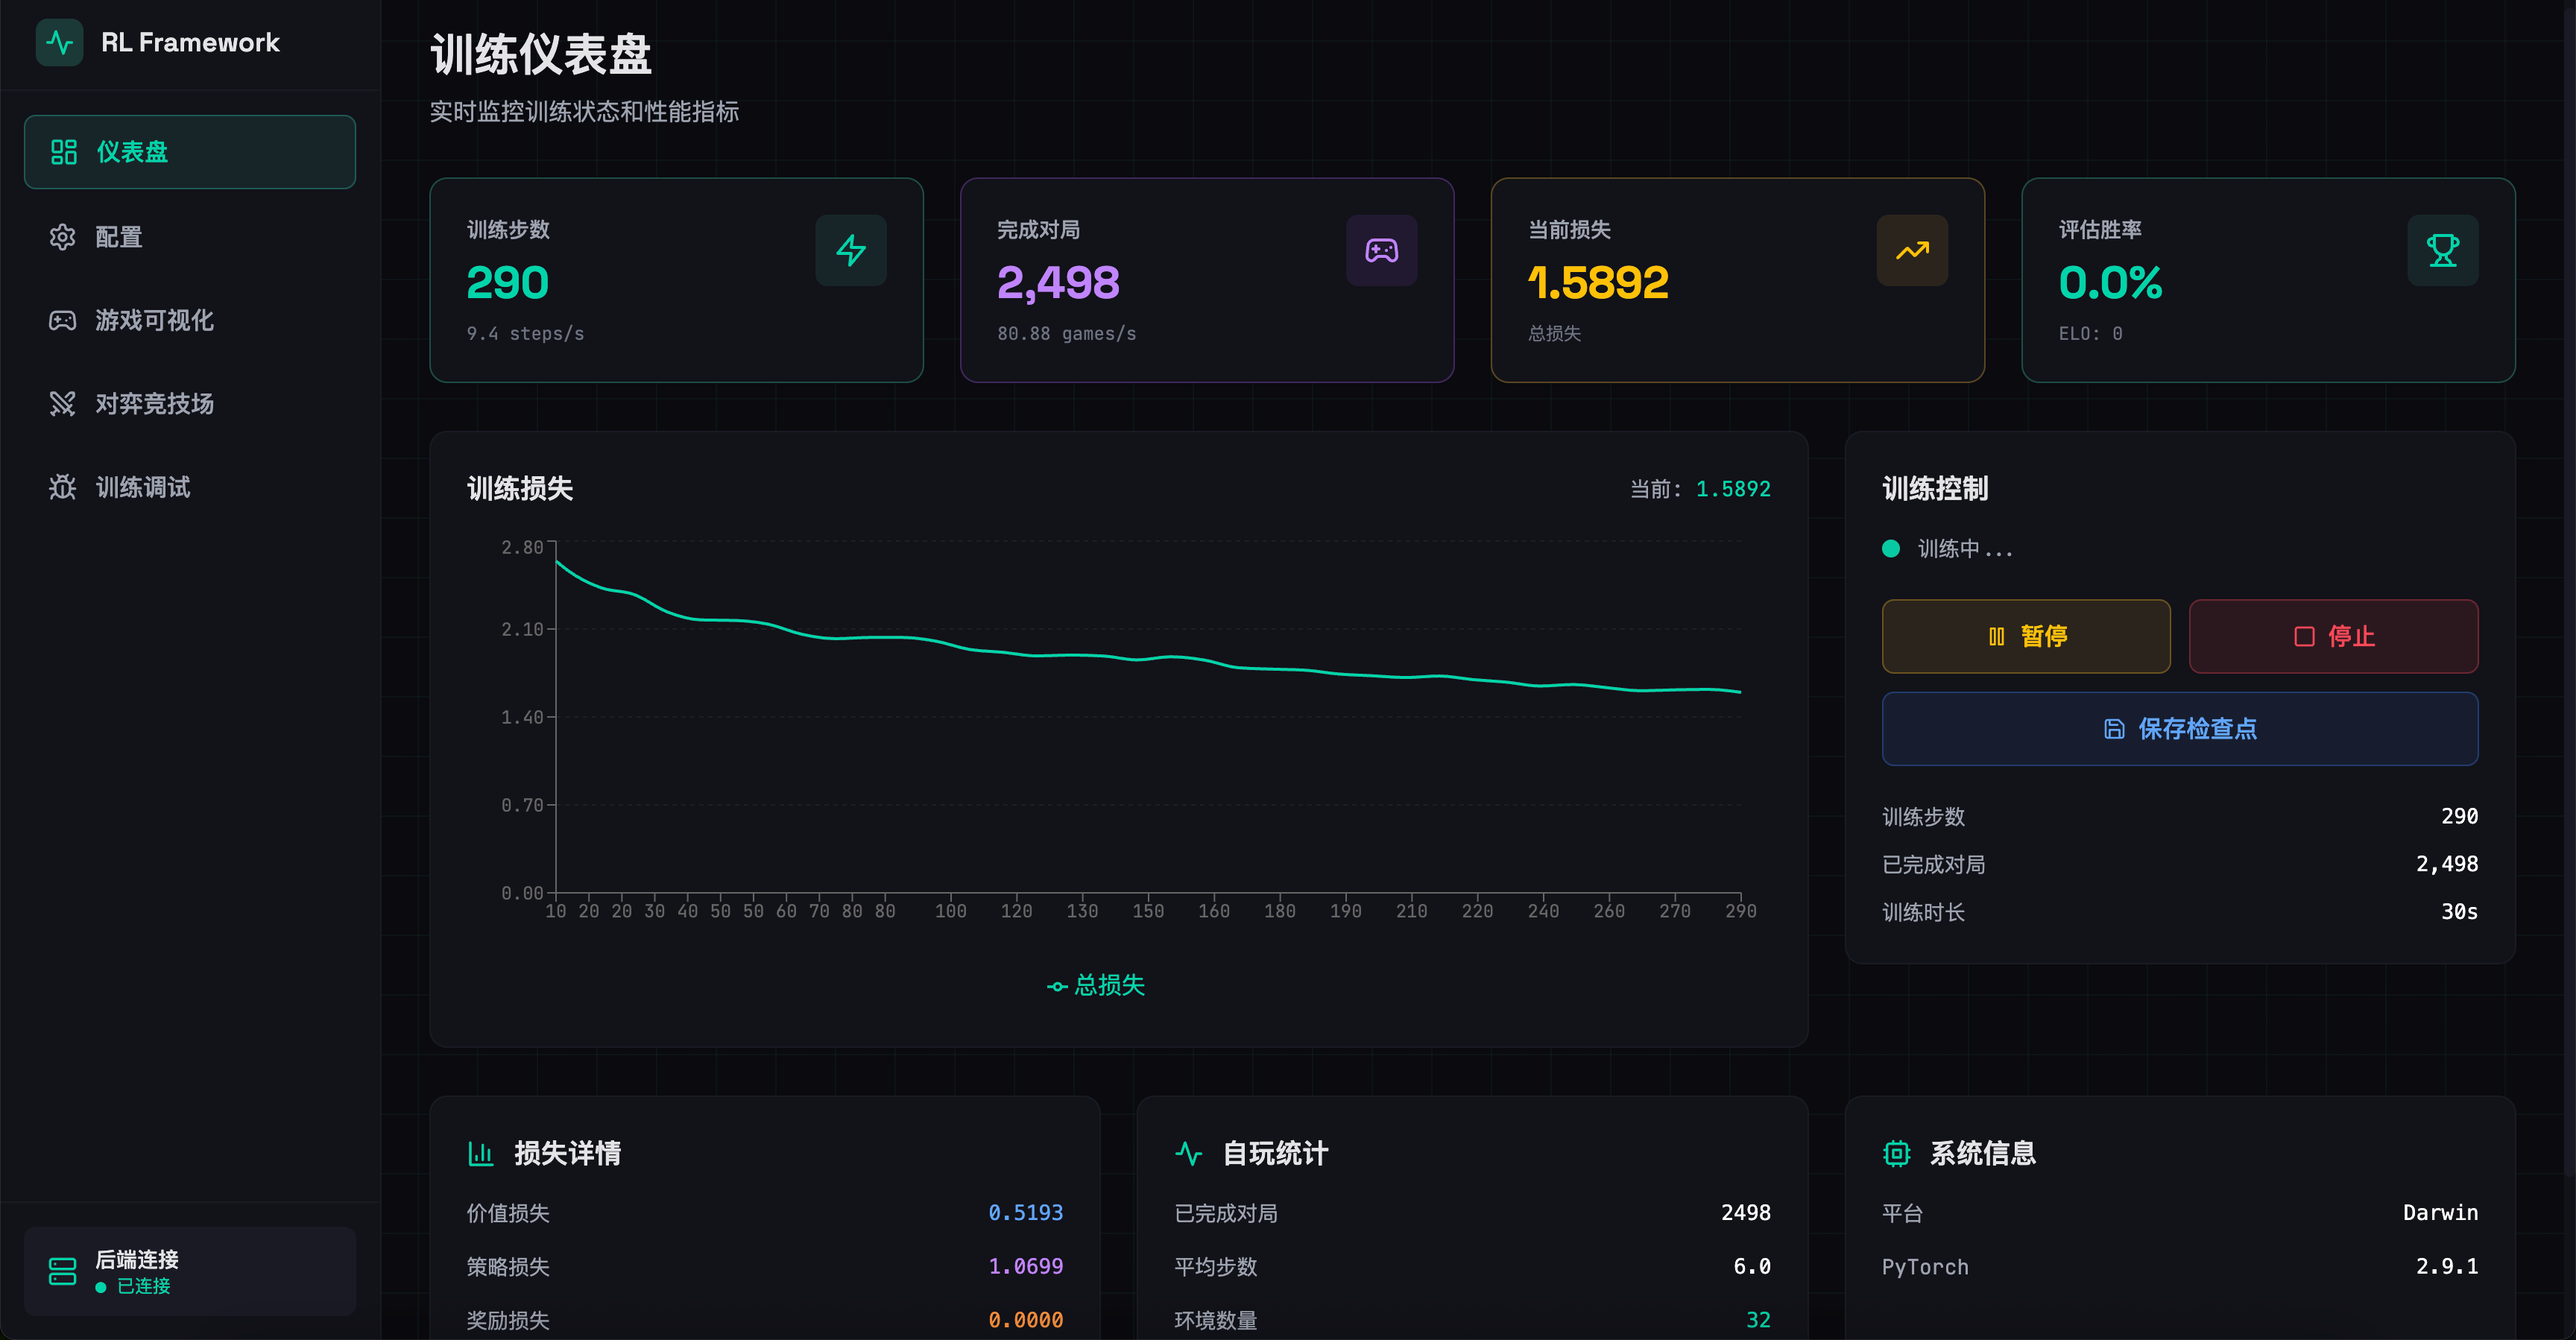
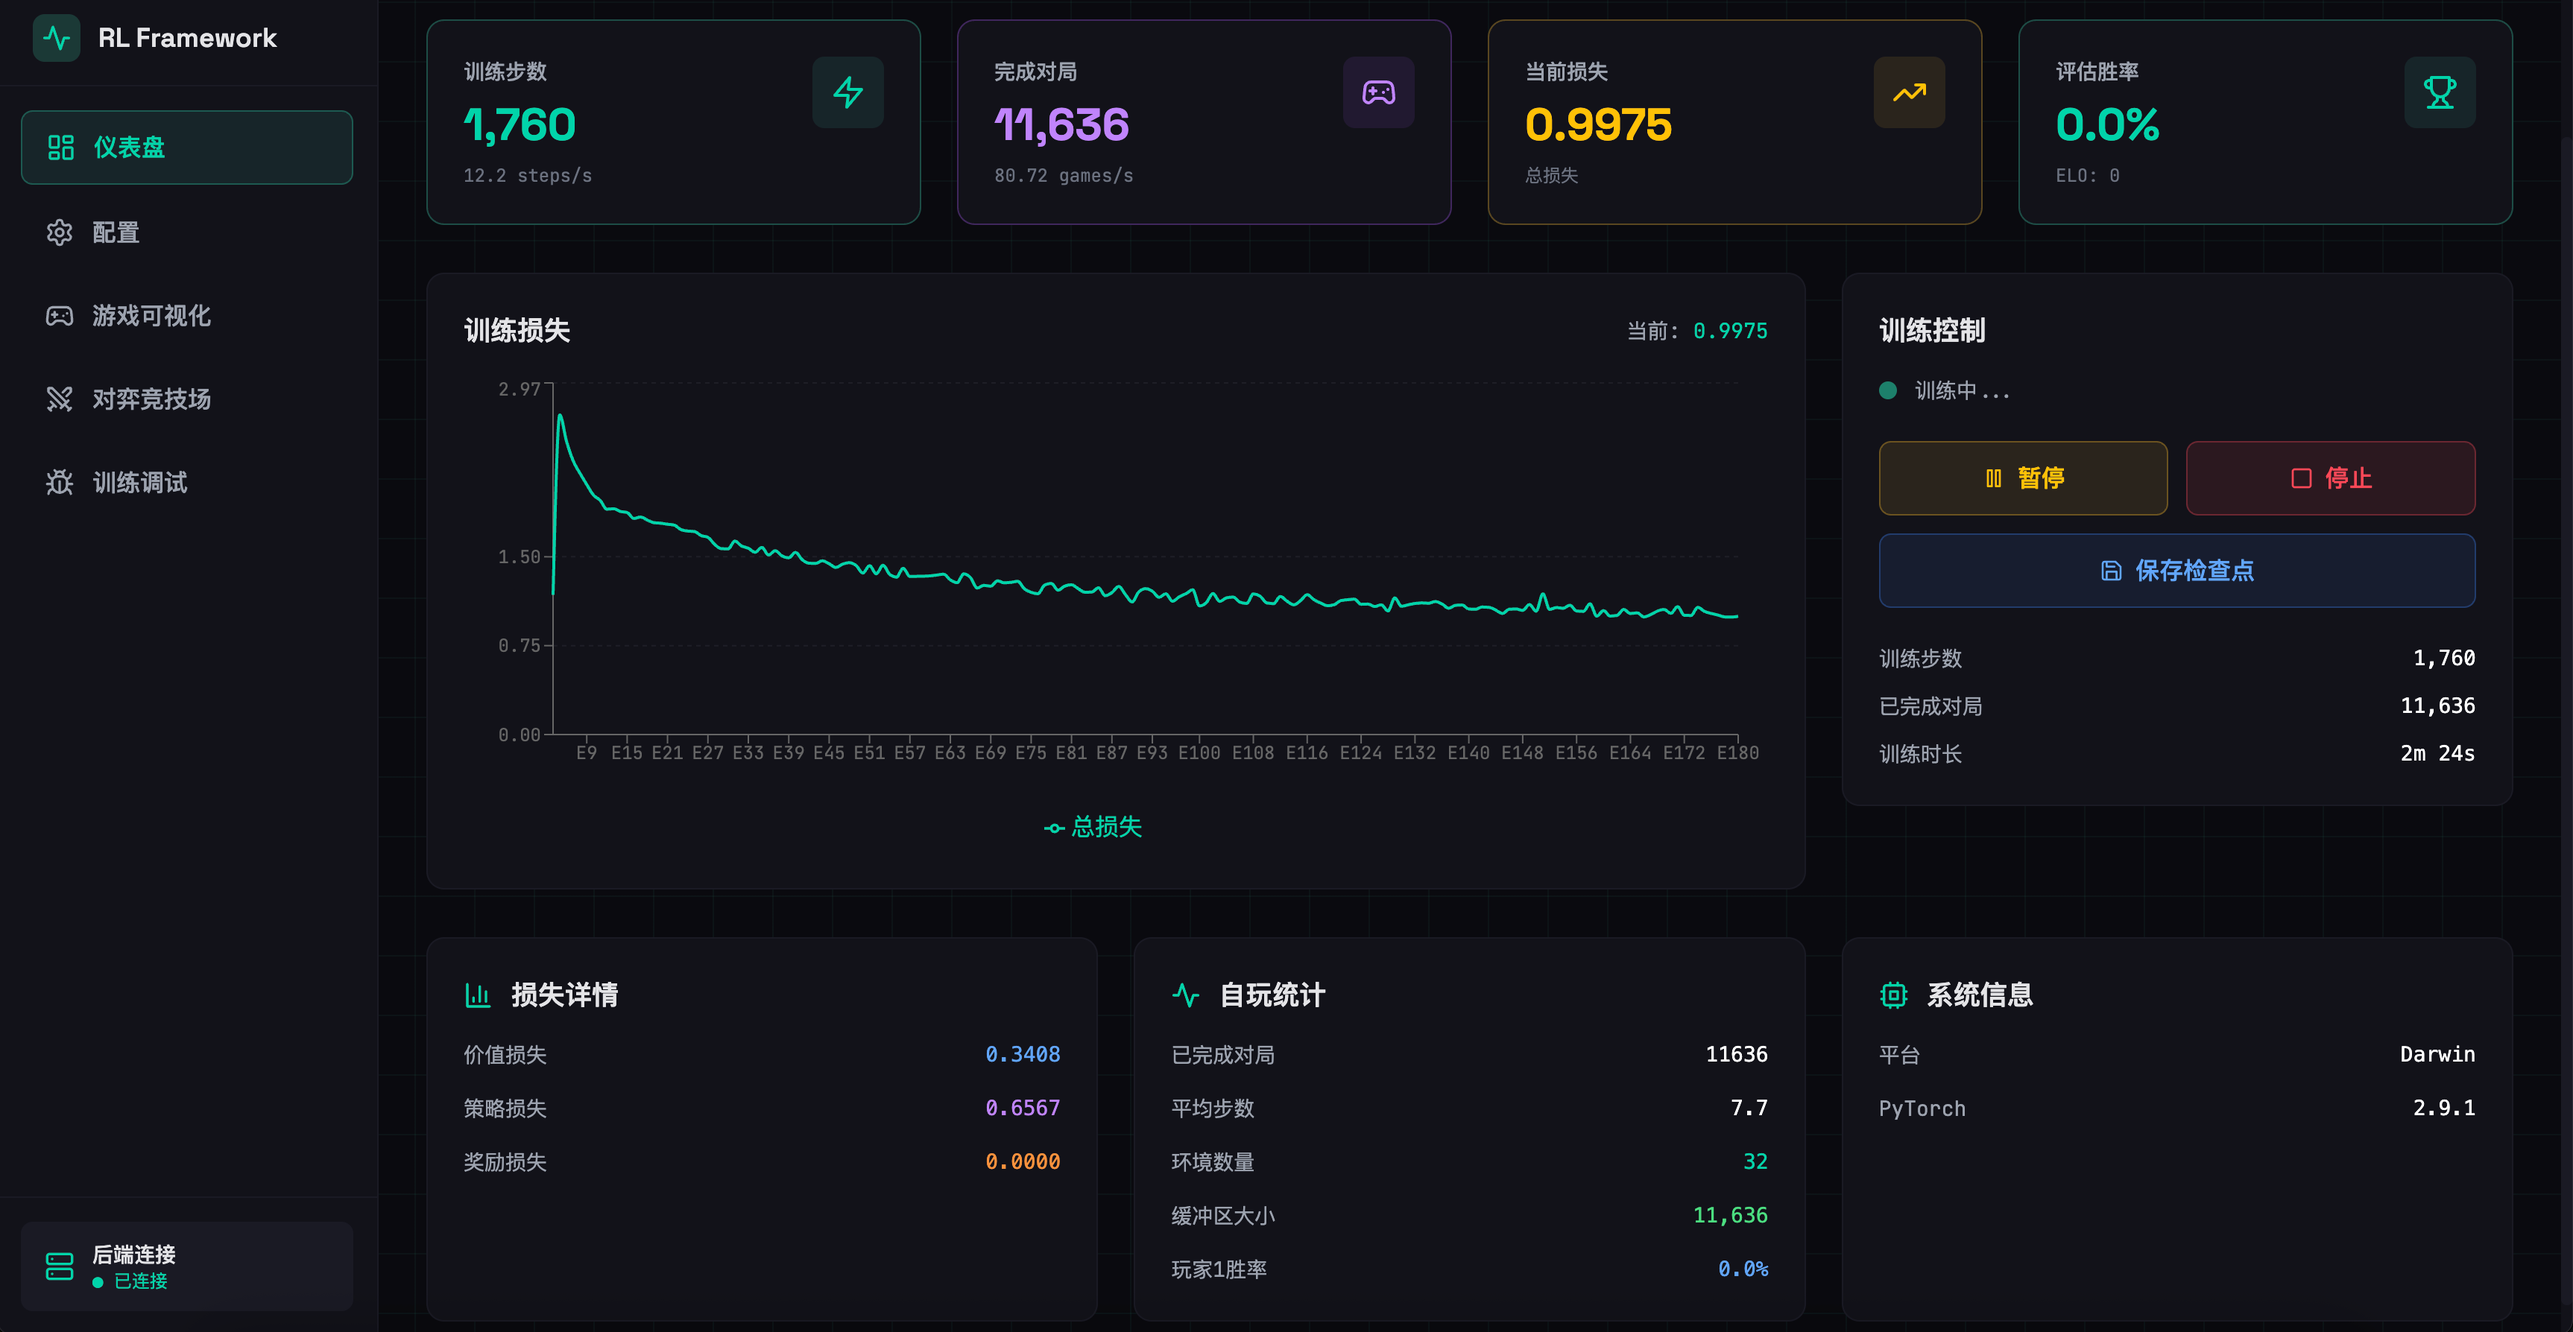
修复改善训练图表显示问题，改用Epoch当作X轴

diff --git a/web/src/components/LossChart.tsx b/web/src/components/LossChart.tsx
@@ -1,3 +1,4 @@
+import { useMemo } from 'react'
 import { 
   LineChart, 
   Line, 
@@ -20,7 +21,17 @@ export function LossChart({ height = 300 }: LossChartProps) {
   // 构建图表数据
   const chartData = lossHistory.length > 0 
     ? lossHistory 
-    : [{ step: 0, loss: 0 }]
+    : [{ epoch: 0, loss: 0 }]
+  
+  // 计算 Y 轴范围：从 0 开始，最大值取数据最大值的 1.1 倍（留出空间）
+  const yDomain = useMemo(() => {
+    if (lossHistory.length === 0) return [0, 1]
+    const maxLoss = Math.max(...lossHistory.map(d => d.loss))
+    const minLoss = Math.min(...lossHistory.map(d => d.loss))
+    // 如果最大值很小，设置一个最小范围
+    const upperBound = Math.max(maxLoss * 1.1, 0.1)
+    return [0, upperBound]
+  }, [lossHistory])
 
   return (
     <div className="bg-bg-card border border-bg-elevated rounded-xl p-6">
@@ -41,15 +52,16 @@ export function LossChart({ height = 300 }: LossChartProps) {
             vertical={false}
           />
           <XAxis 
-            dataKey="step" 
+            dataKey="epoch" 
             stroke="#666"
             tick={{ fill: '#666', fontSize: 12 }}
-            tickFormatter={(value) => value >= 1000 ? `${(value/1000).toFixed(0)}k` : value}
+            tickFormatter={(value) => `E${value}`}
           />
           <YAxis 
             stroke="#666"
             tick={{ fill: '#666', fontSize: 12 }}
             tickFormatter={(value) => value.toFixed(2)}
+            domain={yDomain}
           />
           <Tooltip
             contentStyle={{
@@ -61,7 +73,7 @@ export function LossChart({ height = 300 }: LossChartProps) {
             labelStyle={{ color: '#888' }}
             itemStyle={{ color: '#00d4aa' }}
             formatter={(value: number) => [value.toFixed(4), '损失']}
-            labelFormatter={(label) => `步数: ${label}`}
+            labelFormatter={(label) => `Epoch ${label}`}
           />
           <Legend 
             wrapperStyle={{ paddingTop: '20px' }}

diff --git a/web/src/store/index.ts b/web/src/store/index.ts
@@ -64,9 +64,9 @@ interface AppState {
   connected: boolean
   setConnected: (connected: boolean) => void
   
-  // 历史数据（用于图表）
-  lossHistory: { step: number; loss: number }[]
-  addLossHistory: (step: number, loss: number) => void
+  // 历史数据（用于图表，以 epoch 为 X 轴）
+  lossHistory: { epoch: number; loss: number }[]
+  addLossHistory: (epoch: number, loss: number) => void
   clearLossHistory: () => void
 }
 
@@ -119,12 +119,23 @@ export const useAppStore = create<AppState>((set) => ({
   connected: false,
   setConnected: (connected) => set({ connected }),
   
-  // 历史数据
+  // 历史数据（以 epoch 为 X 轴）
   lossHistory: [],
-  addLossHistory: (step, loss) =>
-    set((state) => ({
-      lossHistory: [...state.lossHistory.slice(-100), { step, loss }],
-    })),
+  addLossHistory: (epoch, loss) =>
+    set((state) => {
+      // 避免重复添加相同 epoch 的数据
+      const lastEntry = state.lossHistory[state.lossHistory.length - 1]
+      if (lastEntry && lastEntry.epoch === epoch) {
+        // 更新最后一个点的 loss 值
+        const updated = [...state.lossHistory]
+        updated[updated.length - 1] = { epoch, loss }
+        return { lossHistory: updated }
+      }
+      // 添加新数据点，保留最近 200 个 epoch
+      return {
+        lossHistory: [...state.lossHistory.slice(-200), { epoch, loss }],
+      }
+    }),
   clearLossHistory: () => set({ lossHistory: [] }),
 }))
 

diff --git a/web/src/hooks/useWebSocket.ts b/web/src/hooks/useWebSocket.ts
@@ -27,9 +27,9 @@ export function useTrainingWebSocket() {
           const status = message.data
           setTrainingStatus(status)
           
-          // 添加到历史
-          if (status.step > 0 && status.loss > 0) {
-            addLossHistory(status.step, status.loss)
+          // 添加到历史（以 epoch 为 X 轴）
+          if (status.epoch > 0 && status.loss > 0) {
+            addLossHistory(status.epoch, status.loss)
           }
         }
       } catch (e) {

diff --git a/README.md b/README.md
@@ -116,6 +116,7 @@ npm run dev
 
 ### 后端Ui功能截图
 ![训练流程](assets/train_game.png)
+![PK竞技](assets/pk.png)
 ![debug流程](assets/debug.png)
 ![debug mcts访问分布流程](assets/debug_mcts.png)
 ![debug mcts访问分布流程](assets/cchess.png)
